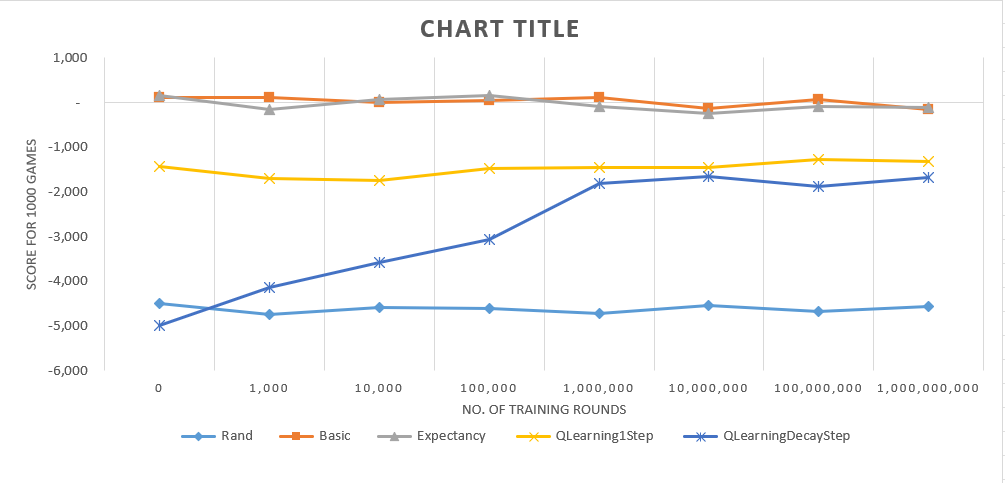
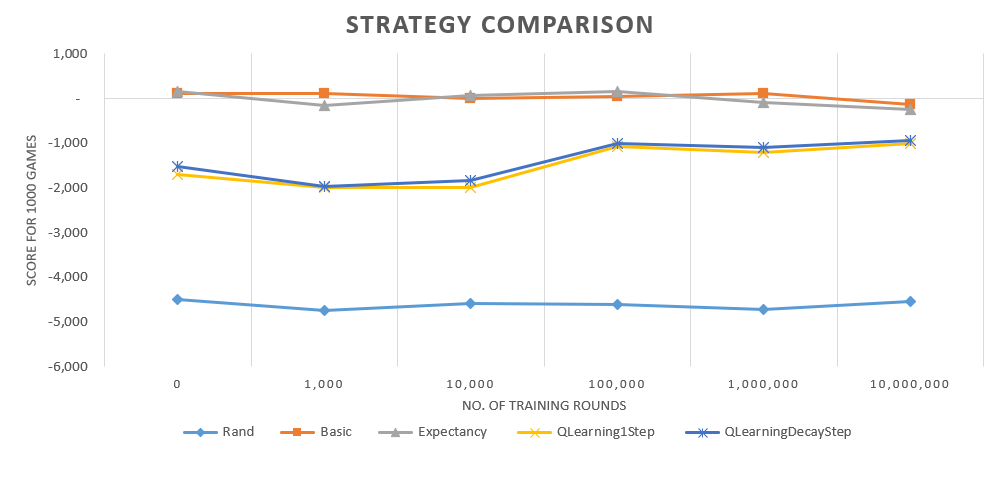
Update the inputs for q-learning players

diff --git a/Train_and_compare.py b/Train_and_compare.py
@@ -9,15 +9,16 @@ from Players.TablesPlayers.ExpectancyPlayer import ExpectancyPlayer
 # rand = RandomPlayer(False, save_plays=True)
 base = BasicPlayer(print_plays=False, save_plays=True)
 ex = ExpectancyPlayer(False, save_plays=True)
-q_learn_one_step1 = QLearningOneStepPlayer(lr=0.1, name="OneStep0.1")
-q_learn_one_step01 = QLearningOneStepPlayer(lr=0.01, name="OneStep0.01")
-q_learn_one_step2 = QLearningOneStepPlayer(lr=0.2, name="OneStep0.2")
-q_learn_one_step05 = QLearningOneStepPlayer(lr=0.05, name="OneStep0.05")
-q_learn_decay = QLearningDecayStepPlayer(lr=0.01, gamma=0.95)
+q_learn_one = QLearningOneStepPlayer(lr=0.008)
+q_learn_decay90 = QLearningDecayStepPlayer(lr=0.01, gamma=0.9, name="90")
+q_learn_decay95 = QLearningDecayStepPlayer(lr=0.01, gamma=0.95, name="95")
+q_learn_decay99 = QLearningDecayStepPlayer(lr=0.01, gamma=0.99, name="99")
+q_learn_decay85 = QLearningDecayStepPlayer(lr=0.01, gamma=0.85, name="85")
+q_learn_decay80 = QLearningDecayStepPlayer(lr=0.01, gamma=0.80, name="80")
 # Define who joins the game
-players = [base, ex, q_learn_one_step1, q_learn_one_step01, q_learn_one_step2, q_learn_one_step05, q_learn_decay]
+players = [base, ex, q_learn_one, q_learn_decay90, q_learn_decay95, q_learn_decay99, q_learn_decay80, q_learn_decay85]
 
-# train X times and then compare the results for a 1000 games
+# train X times and then compare the results for 1000 games
 with open("compare/compare_before_training - learning rate.txt", 'w') as f:
     for i in range(10000):
         # Init a single game
@@ -27,12 +28,8 @@ with open("compare/compare_before_training - learning rate.txt", 'w') as f:
 
 train_amount = [pow(10, 3), pow(10, 4), pow(10, 5), pow(10, 6), pow(10, 7)]
 for amount in train_amount:
-    q_learn_decay.train(amount)
-    q_learn_one_step1.train(amount)
-    q_learn_one_step01.train(amount)
-    q_learn_one_step2.train(amount)
-    q_learn_one_step05.train(amount)
-
+    for player in players[2:]:
+        player.train(amount)
     game.reset_prize()
     with open("compare/compare_" + str(amount) + "_training - learning rate.txt", 'w') as f:
         for i in range(10000):

diff --git a/Players/RLPlayers/README.md b/Players/RLPlayers/README.md
@@ -4,7 +4,7 @@ The primary goal of this player is to maximize its expected cumulative reward ov
 
 ### Q-Value Updates:
 The key distinction between these players lies in how they update their Q-values.
-While the "One-Step Changes" player updates Q-values at the end of an hand for each action equally,
+While the "One-Step Changes" player updates Q-values at the end of a hand for each action equally,
 the "Decay Step" player updates Q-values periodically, considering rewards with decay rate over a series of actions.
 
 ### Learning Rate:
@@ -14,34 +14,34 @@ A lower learning rate typically leads to more stable learning but slower adaptat
 
 ### Decay Rate:
 The "Decay Step" player uses a decay rate of 0.9 for its Q-value updates.
-This rate controls how much past experiences affect the current Q-values,
+This rate controls how many experiences affect the current Q-values,
 allowing the player to strike a balance between recent and historical knowledge.
 
 # Experimentation
-Under the compare folder you can find my training process, as you can see I tried to train my models and exmaine the result for each 10X rounds.
+Under the compare folder you can find my training process, as you can see I tried to train my models and examine the result for each 10X rounds.
 
 ## Important Lesson:
 The most significant lesson learned from experimenting with these trained players is that, despite their efforts to learn and adapt, neither method comes close to the effectiveness of the basic strategy in Blackjack. The basic strategy, which is based on rigorous mathematical analysis, remains the most reliable and profitable approach for playing Blackjack. It serves as a reminder that while reinforcement learning methods can be powerful, they may not always outperform well-established strategies in certain domains.
 
 ## Learning curve:
-As showen in the following chart we can see that the One-Step Q-learning algorithem has learned his strategy from the very first 1000 rounds train.  
-Also we can see that the Decay Step method has started low (almost like the random strategy) and trained until the training wasn't effective anymore (around 1 million rounds).
+As shown in the following chart we can see that Q-learning algorithms had learned their strategy from the very first 1000 rounds train.  
+You can also examine that the curve is very flat in the end of the training.
 ![Comparison graph](https://github.com/Bar-A-94/BlackJack/blob/master/compare/compare%201000%20games%20for%20each%20training%20session.png?raw=true)
 
 ## Compare between decision tables:
 ### Important lesson:
-The Q-learning algorithm will teach the player to aviod risks, the reward for losing affects his decision majorly.  
+The Q-learning algorithm will teach the player to avoid risks, the reward for losing affects his decision majorly.  
 ### Hard tables:
 Comparing the two tables we can see that 
-1. At the lower hand value - the q-learning has learned to wait till the dealer will burn-out, this is one down for q-learning.
-2. At the high value hand with low dealer's card - the q-learning might still hit some times, another one against q-learning.
+1. At the lower hand value - the q-learning has learned to wait till the dealer will burn out, this is one down for q-learning.
+2. At the high value hand with low dealer's card - the q-learning might still hit sometimes, another one against q-learning.
 ![OneStep](https://github.com/Bar-A-94/BlackJack/blob/master/Players/RLPlayers/Heat%20map%20tables/QLearning1Step%20Hard%20table.png)
 ![Basic](https://github.com/Bar-A-94/BlackJack/blob/master/Players/TablesPlayers/Heat%20map%20tables/Basic%20player%20Hard%20table.png)   
 
 ### Soft tables:
 Comparing the two tables we can see that 
-1. At the lower hand value - the q-learning has learned to wait till the dealer will burn-out, same as the hard table.
-2. At the high value hand with low dealer's card - the q-learning might still hit some times, it may actually be good some time.
+1. At the lower hand value - the q-learning has learned to wait till the dealer will burn out, same as the hard table.
+2. At the high value hand with low dealer's card - the q-learning might still hit sometimes, it may actually be good some time.
 ![OneStep](https://github.com/Bar-A-94/BlackJack/blob/master/Players/RLPlayers/Heat%20map%20tables/QLearning1Step%20Soft%20table.png)
 ![Basic](https://github.com/Bar-A-94/BlackJack/blob/master/Players/TablesPlayers/Heat%20map%20tables/Basic%20player%20Soft%20table.png)   
 

diff --git a/Players/README.md b/Players/README.md
@@ -10,12 +10,12 @@ The Random Player is a simple player that makes decisions completely at random. 
 The Human Player allows you to control the game by entering your decisions through prompts. You play as the human participant, making choices based on your understanding of the game's rules.  
 
 ### 3. Basic Strategy Player
-The Basic Strategy Player follows the predefined basic strategy for Blackjack. This strategy is based on mathematical probabilities and provides recommendations for each possible player hand against the dealer's upcard. The Basic Strategy Player adheres strictly to this strategy when making decisions.   
+The Basic Strategy Player follows the predefined basic strategy for Blackjack. This strategy is based on mathematical probabilities and provides recommendations for each possible player hand against the dealer's card. The Basic Strategy Player adheres strictly to this strategy when making decisions.   
 [read more](https://wizardofodds.com/games/blackjack/strategy/4-decks/)   
 
 ### 4. Expectancy Player
 The Expectancy Player uses a table that calculates the expected value for each possible action based on the current state of the game. It chooses the action with the highest expected value. This player takes into account the probabilities of different outcomes and selects the action that maximizes expected gains.
-it's not known strategy - i made it myself.   
+it's not known strategy - I made it myself.   
 [read more](https://en.wikipedia.org/wiki/Expected_value) about expectancy   
 
 ### 5. Q-learning (One-Step) Player
